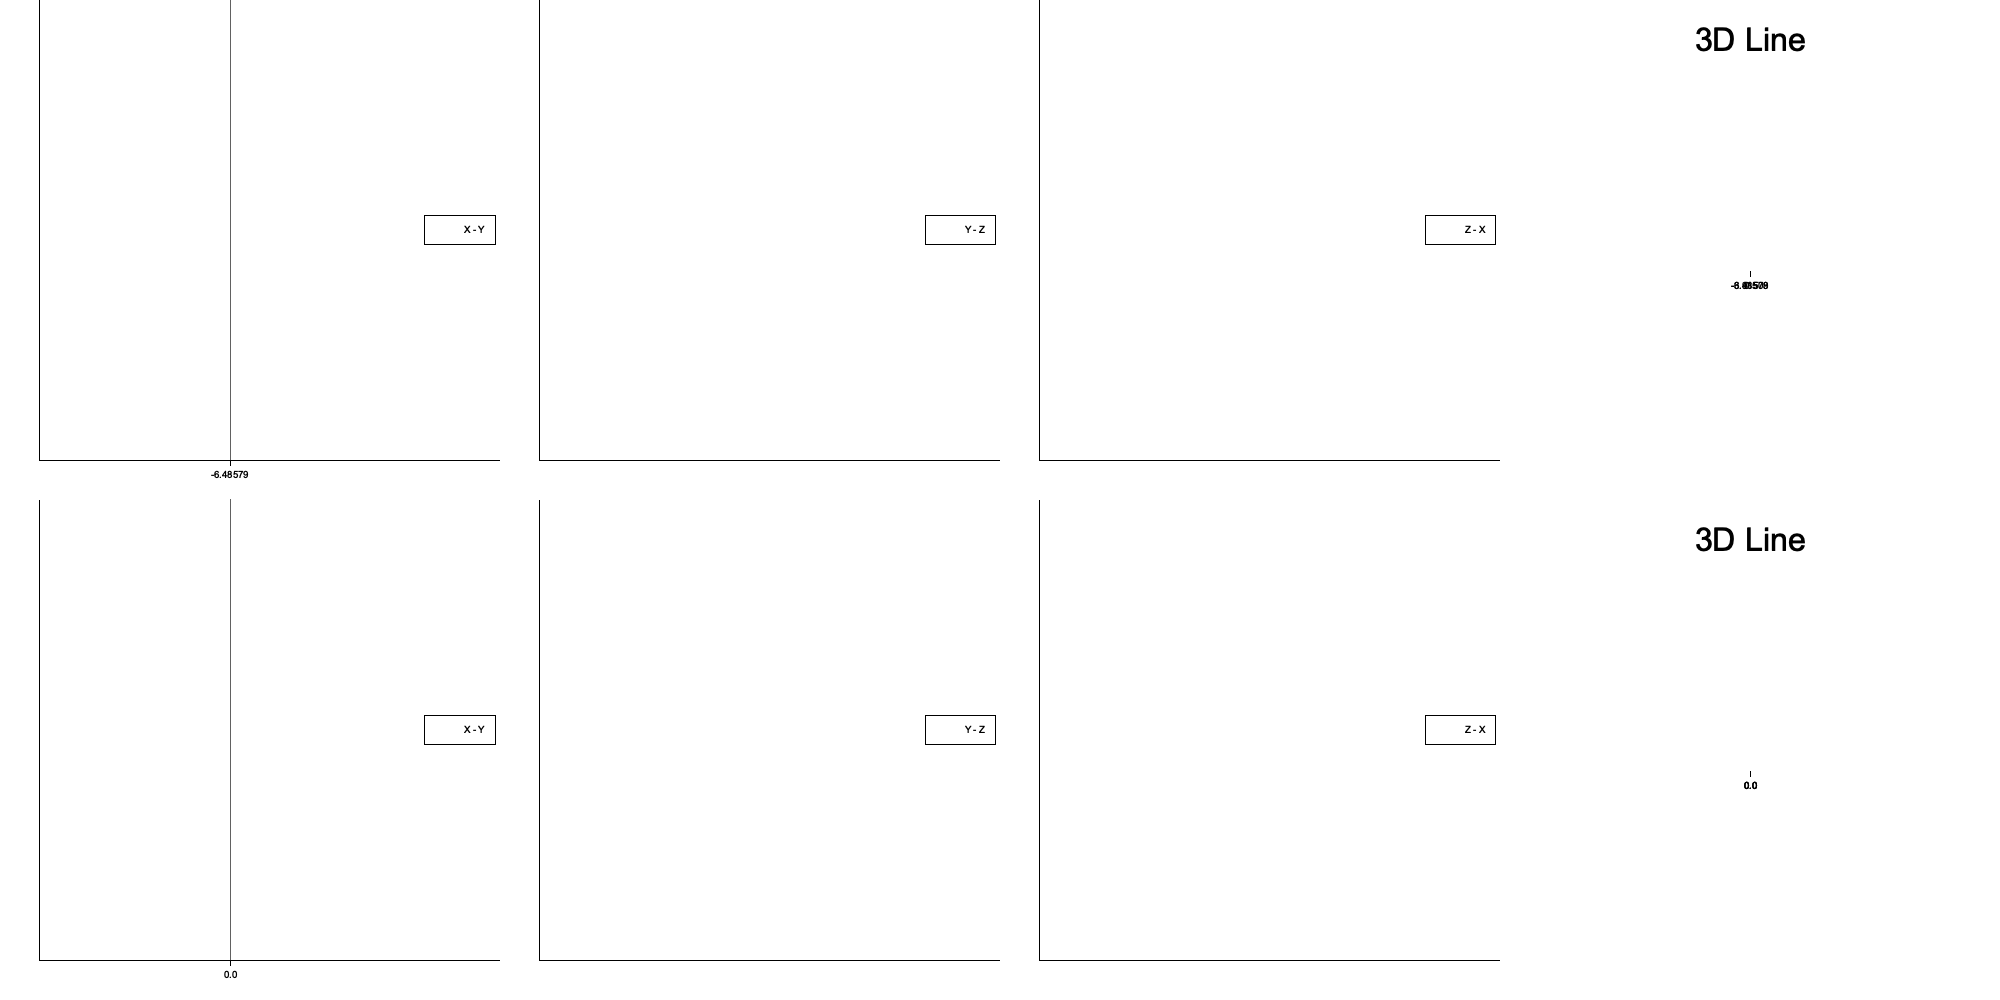
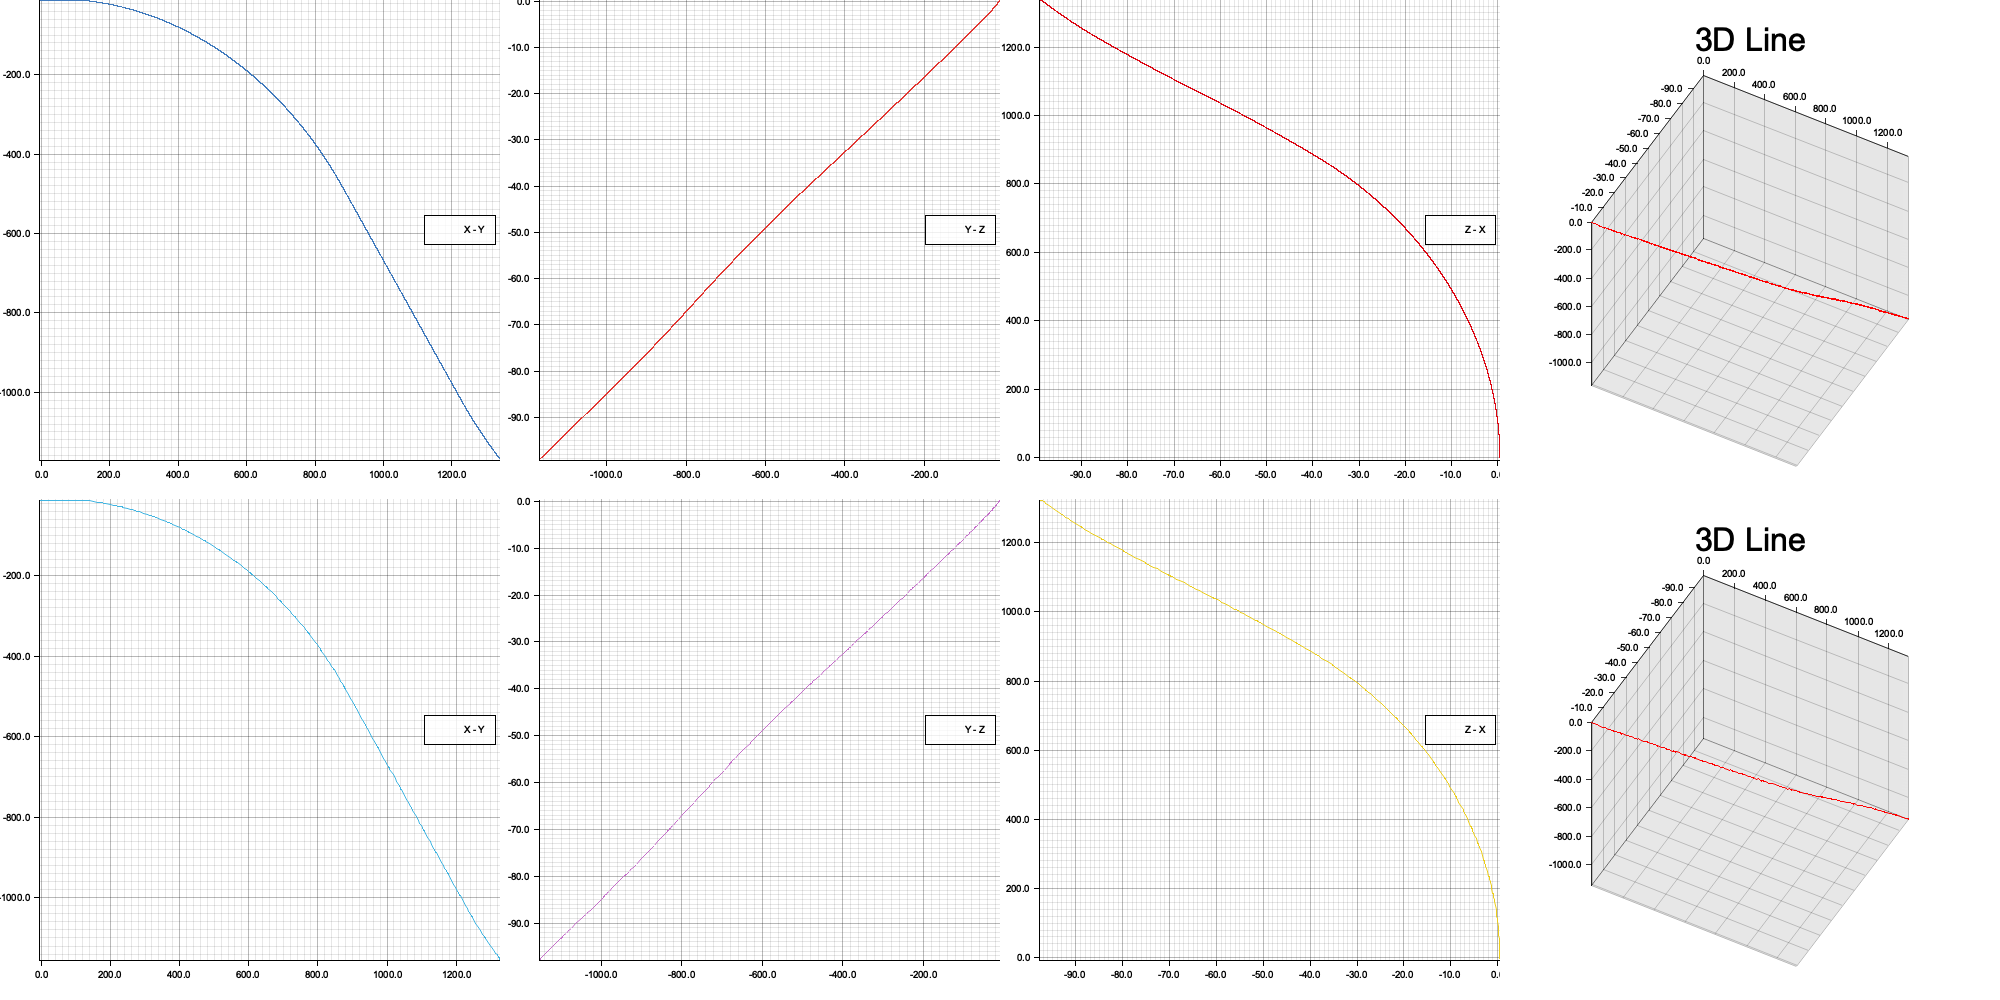
Update

Changed region(s): [[0.0, 0.0, 0.744, 0.961], [0.775, 0.062, 0.961, 0.465], [0.775, 0.558, 0.961, 0.961]]

diff --git a/src/main.rs b/src/main.rs
@@ -36,7 +36,6 @@ fn main() {
     f.set(2, 5, dt);
 
     // Matrice de transition
-    // TODO ICI C'est la merde en fait !
     let mut h = identity(6);
     h.set(3, 3, 1.);
     h.set(4, 4, 1.);
@@ -82,7 +81,6 @@ fn main() {
 
             // Set measurement
             let mut measurement = zeros((6, 1));
-
             measurement.set(0, 0, position.x);
             measurement.set(1, 0, position.y);
             measurement.set(2, 0, position.z);
@@ -100,16 +98,30 @@ fn main() {
             }
             
             // Send location
+            send_location(message.position, &socket);
             if i % 300 == 0 {
                 println!("({}) => Prediction: {:?}", i, position);
-                send_location(position, &socket);
+                // send_location(position, &socket);
             } else {
                 println!("({}) => Prediction: {:?}", i, result);
-                send_location(result, &socket);
+                // send_location(result, &socket);
             }
 
             i += 1;
         }
+        i = 0;
+        let mut y: Vec<f64> = Vec::new();
+        while i < kalman_filter::HISTORY_FILTER_X.len() as u32 {
+            y.push(i as f64 * 0.01);
+            i += 1;
+        }
+        println!("{} {}", i as f64 * 0.01, kalman_filter::HISTORY_FILTER_X.last().unwrap());
+        utils::plot("x_t.png", kalman_filter::HISTORY_FILTER_X.clone(), y.clone());
+        utils::plot("real_x_t.png", message::HISTORY_POSITION_X.clone(), y.clone());
+        utils::plot("y_t.png", kalman_filter::HISTORY_FILTER_Y.clone(), y.clone());
+        utils::plot("real_y_t.png", message::HISTORY_POSITION_Y.clone(), y.clone());
+        utils::plot("z_t.png", kalman_filter::HISTORY_FILTER_Z.clone(), y.clone());
+        utils::plot("real_z_t.png", message::HISTORY_POSITION_Z.clone(), y.clone());
         utils::plot_splitted("splitted.png");
     }
 }

diff --git a/src/utils.rs b/src/utils.rs
@@ -68,6 +68,12 @@ pub fn plot3d(root: DrawingArea<BitMapBackend, Shift>, x: Vec<f64>, y: Vec<f64>,
     )).unwrap();
 }
 
+pub fn plot(path: &str, x: Vec<f64>, y: Vec<f64>) {
+    let root = BitMapBackend::new(path, (2000, 1000)).into_drawing_area();
+
+    plot_on_root(root, x, y, path)
+}
+
 pub unsafe fn plot_splitted(path: &str) {
     let root = BitMapBackend::new(path, (2000, 1000)).into_drawing_area();
     
